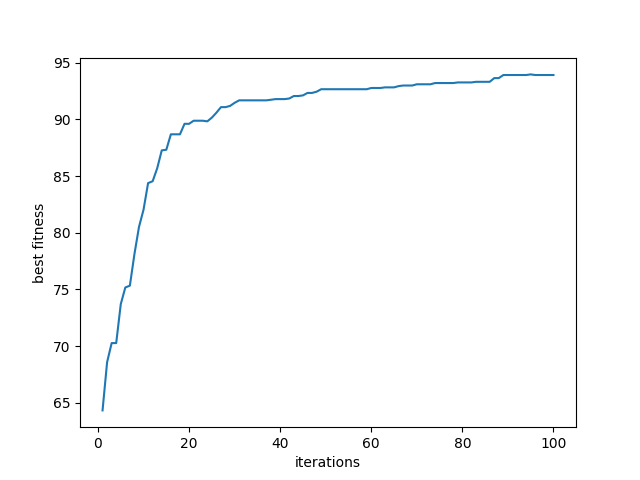
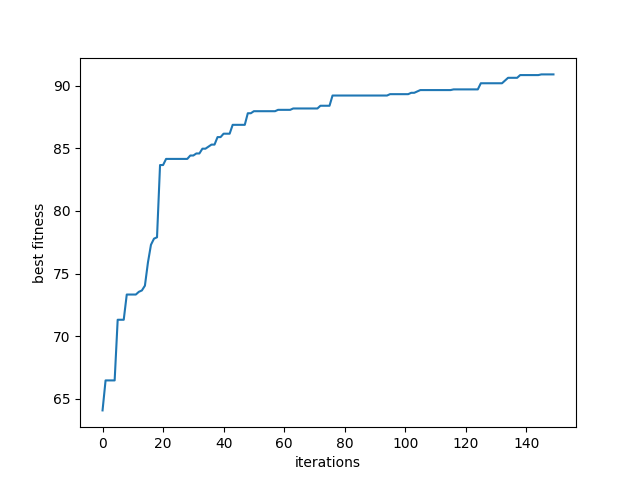
Better organization of experiments, now experiments results are organized according to experiment tags - use python main.py --exp-tag <tag> TODO: Add configs to experiments

diff --git a/code/algo.py b/code/algo.py
@@ -1,5 +1,7 @@
 import random
 import numpy as np
+from sklearn.cluster import KMeans
+from collections import defaultdict
 
 from util import geodistance
 import constants
@@ -10,14 +12,18 @@ class Model():
     n_circles = None # number of charging stations to cover restaurants
     lat_range, lon_range = None, None # range of lattitude and longitude
 
-    def __init__(self, gnome=None):
+    def __init__(self, gnome=None, log=False):
+        np.random.seed(seed=constants.SEED)
         if Model.instance is None:
             raise Exception('please initialize the model class first, e.g. Run Mode.Init(instance, radius, n_circles)')
 
+        self.log = log
         if gnome is None:
-            lats = np.random.uniform(Model.lat_range[0], Model.lat_range[1], Model.n_circles)
-            lons = np.random.uniform(Model.lon_range[0], Model.lon_range[1], Model.n_circles)
-            self.centers = np.column_stack((lats, lons))
+            kmeans = KMeans(n_clusters=Model.n_circles, random_state=0).fit(Model.instance.values[:, 1:])
+            self.centers = kmeans.cluster_centers_
+            # lats = np.random.uniform(Model.lat_range[0], Model.lat_range[1], Model.n_circles)
+            # lons = np.random.uniform(Model.lon_range[0], Model.lon_range[1], Model.n_circles)
+            # self.centers = np.column_stack((lats, lons))
         else:
             self.centers = gnome
 
@@ -33,7 +39,8 @@ class Model():
 
         covered_nodes_percentage = 100 * np.sum(covered != 0) / n_nodes
         overlaped_nodes_percentage = 100 * np.sum(covered > 1) / n_nodes
-        print(f'covered_nodes -> {covered_nodes_percentage} overlaped_nodes -> {overlaped_nodes_percentage}')
+        if self.log:
+            print(f'covered_nodes -> {covered_nodes_percentage} overlaped_nodes -> {overlaped_nodes_percentage}')
         
         return (covered_nodes_percentage - overlaped_nodes_percentage)
 
@@ -59,7 +66,7 @@ class Model():
         fit_models = population[0:round(constants.SELECTION_PERCENTAGE * constants.POPULATION)]
 
         for model in fit_models:
-            fit_models_copy.append(Model(gnome=model.centers))
+            fit_models_copy.append(Model(gnome=model.centers.copy()))
 
         return fit_models_copy
 
@@ -68,7 +75,7 @@ class Model():
         centers1, centers2 = object1.centers.copy(), object2.centers.copy()
 
         for i in range(Model.n_circles):
-            if random.randint(0, 100) <= constants.CROSSOVER_PROBABILITY * 100:
+            if np.random.uniform(0, 1) <= constants.CROSSOVER_PROBABILITY:
                 centers1[i], centers2[i] = centers2[i], centers1[i]
 
         return Model(gnome=centers1) if random.randint(0,1) == 0 else Model(gnome=centers2)
@@ -76,11 +83,14 @@ class Model():
 
     @classmethod
     def mutation(cls, obj):
-        centers = obj.centers
+        centers = obj.centers.copy()
 
         for i in range(Model.n_circles):
-            if random.randint(0, 100) <= constants.MUTATION_PROBABILITY * 100:
-                centers[i] += np.random.uniform(-0.008, 0.008, 2)
+            if np.random.uniform(0, 1) <= constants.MUTATION_PROBABILITY:
+                if constants.MUTATION_DISTRIBTION == "uniform":
+                    centers[i] += np.random.uniform(-constants.MUTATION_RANGE, constants.MUTATION_RANGE, 2)
+                else:
+                    centers[i] += np.random.normal(0, constants.MUTATION_RANGE, 2)
 
         return Model(gnome=centers)
 

diff --git a/code/main.py b/code/main.py
@@ -1,39 +1,12 @@
-import argparse
-from sys import argv
-from sklearn.cluster import KMeans
-import seaborn as sns
 import matplotlib.pyplot as plt
-# from sklearn.cluster import KMeans
+
 import util
 from constants import RADIUS, N_CIRCLES, POPULATION
 from algo import Model
 
-def parse_arguments():
-    parser = argparse.ArgumentParser()
-    parser.add_argument('-format', '--format', help='format of the file from which to extract dataframe', type=str)
-    parser.add_argument('-region', '--region', help='name of the region for data', type=str)
-    parser.set_defaults(format='csv')
-
-    args = parser.parse_args()
-    df = util.get_restaurants(args.region, args.format == 'csv')
-    return df, args.region, args.format != 'csv'
-
-def kmean_draw(df, region):
-    data = df.values[:, 1:]
-    km = KMeans(n_clusters=12, random_state=0)
-    km.fit(data)
-
-    prediction = km.predict(data)
-    centers = km.cluster_centers_
-
-    sns.scatterplot(x="lat", y="lon", data=df, hue=prediction)
-    plt.plot(centers[:, 0], centers[:, 1], 'o')
-    plt.savefig(f'fig/{region}.kmean.png', format='png')
-    plt.show()
-
 # Create geneatic algorithm for set cover problem using fixed radius circles
 if __name__ == '__main__':
-    df, region, is_osm = parse_arguments()
+    df, region, is_osm, expno = util.parse_arguments()
     # util.draw(df, region)
     if is_osm:
         util.to_csv(df, region)
@@ -42,28 +15,29 @@ if __name__ == '__main__':
 
     models = [Model() for _ in range(POPULATION)]
     fitness_per_iteration = []
-    best_model_ceters = None
+    best_model_centers = None
 
-    for i in range(100):
+    EPOCHS = 150
+    for i in range(EPOCHS):
         fitness = [model.fitness() for model in models]
         model_fitness = zip(fitness, models)
         model_fitness = sorted(model_fitness, key=lambda k: k[0], reverse=True)
         fitness_per_iteration.append(model_fitness[0][0])
         population = []
 
-        for i in range(POPULATION):
-            population.append(model_fitness[i][1])
+        for j in range(POPULATION):
+            population.append(model_fitness[j][1])
 
         models = Model.new_generation(population)
-        best_model_ceters = model_fitness[0][1].centers
-        print(model_fitness[0][0])
+        best_model_centers = model_fitness[0][1].centers
+        print(f'iterations: {i}, fitness: {model_fitness[0][0]}')
 
     print('---------------------------------------')
-    print(f'{best_model_ceters}')
+    print(f'{best_model_centers}')
     print('---------------------------------------')
 
-    plt.plot([i for i in range(1, 101)], fitness_per_iteration)
+    plt.plot([i for i in range(0, EPOCHS)], fitness_per_iteration)
     plt.xlabel('iterations')
     plt.ylabel('best fitness')
-    plt.savefig(f'fig/{region}.genetic.png', format='png')
+    plt.savefig(f'experiments/exp-{expno}/fig/{region}.genetic.png', format='png')
     plt.show()

diff --git a/code/result.py b/code/result.py
@@ -10,27 +10,17 @@ import util
 from constants import RADIUS, N_CIRCLES, POPULATION
 from algo import Model
 
-def parse_arguments():
-    parser = argparse.ArgumentParser()
-    parser.add_argument('-format', '--format', help='format of the file from which to extract dataframe', type=str)
-    parser.add_argument('-region', '--region', help='name of the region for data', type=str)
-    parser.set_defaults(format='csv')
-
-    args = parser.parse_args()
-    df = util.get_restaurants(args.region, args.format == 'csv')
-    return df, args.region, args.format != 'csv'
-
 # Create geneatic algorithm for set cover problem using fixed radius circles
 if __name__ == '__main__':
-    df, region, is_osm = parse_arguments()
+    df, region, is_osm, expno = util.parse_arguments()
     # util.draw(df, region)
     if is_osm:
         util.to_csv(df, region)
 
-    centers = pd.read_csv(f'csv/{region}.centers.csv').values[:, 1:]
+    centers = pd.read_csv(f'experiments/exp-{expno}/csv/{region}.centers.csv').values[:, 1:]
     
     Model.Init(df, RADIUS, N_CIRCLES)
-    model = Model(gnome=centers)
+    model = Model(gnome=centers, log=True)
     print(model.fitness())
 
     Y = [i for i in range(len(centers))]
@@ -44,5 +34,5 @@ if __name__ == '__main__':
 
     sns.scatterplot(x="lat", y="lon", data=df, hue=y)
     plt.plot(centers[:, 0], centers[:, 1], 'o')
-    plt.savefig(f'fig/{region}.gacluster.png', format='png')
+    plt.savefig(f'experiments/exp-{expno}/fig/{region}.gacluster.png', format='png')
     plt.show()

diff --git a/code/util.py b/code/util.py
@@ -1,4 +1,9 @@
+import argparse
+from sys import argv
+
 import osmium as osm
+from sklearn.cluster import KMeans
+import seaborn as sns
 import matplotlib.pyplot as plt
 import pandas as pd
 import seaborn as sns
@@ -56,3 +61,28 @@ def draw(df, region):
 # save the result of dataframe to csv file
 def to_csv(df, region):
     df.to_csv(f'csv/{region}.csv')
+
+def parse_arguments():
+    parser = argparse.ArgumentParser()
+    parser.add_argument('-format', '--format', help='format of the file from which to extract dataframe', type=str)
+    parser.add_argument('-expno', '--expno', help='number of the expierment', type=int)
+    parser.add_argument('-region', '--region', help='name of the region for data', type=str)
+    parser.set_defaults(format='csv')
+
+    args = parser.parse_args()
+    df = util.get_restaurants(args.region, args.format == 'csv')
+    return df, args.region, args.format != 'csv', args.expno
+
+def kmean_draw(df, region, expno):
+    data = df.values[:, 1:]
+    km = KMeans(n_clusters=12, random_state=0)
+    km.fit(data)
+
+    prediction = km.predict(data)
+    centers = km.cluster_centers_
+
+    sns.scatterplot(x="lat", y="lon", data=df, hue=prediction)
+    plt.plot(centers[:, 0], centers[:, 1], 'o')
+    plt.savefig(f'experiments/exp-{expno}/fig/{region}.kmean.png', format='png')
+    plt.show()
+

diff --git a/code/constants.py b/code/constants.py
@@ -1,27 +1,34 @@
 # constants for the geneatic algorithm
+SEED = None
 
 # region cdg
 # RADIUS = 1
 # N_CIRCLES = 4
 # POPULATION = 40
-# SELECTION_PERCENTAGE = 0.3
-# MUTATION_PROBABILITY = 0.3
+# SELECTION_PERCENTAGE = 0.35
+# MUTATION_PROBABILITY = 0.05
 # CROSSOVER_PROBABILITY = 0.6
+# MUTATION_RANGE = 0.036
+# MUTATION_DISTRIBTION = "uniform"
 
 
 # region dlh
 RADIUS = 4
 N_CIRCLES = 10
 POPULATION = 40
-SELECTION_PERCENTAGE = 0.3
-MUTATION_PROBABILITY = 0.3
+SELECTION_PERCENTAGE = 0.35
+MUTATION_PROBABILITY = 0.05
 CROSSOVER_PROBABILITY = 0.6
+MUTATION_RANGE = 0.04
+MUTATION_DISTRIBTION = "uniform"
 
 
 # region blr
-# RADIUS = 5
-# N_CIRCLES = 10
+# RADIUS = 4
+# N_CIRCLES = 12
 # POPULATION = 40
-# SELECTION_PERCENTAGE = 0.3
-# MUTATION_PROBABILITY = 0.3
+# SELECTION_PERCENTAGE = 0.35
+# MUTATION_PROBABILITY = 0.05
 # CROSSOVER_PROBABILITY = 0.6
+# MUTATION_RANGE = 0.036
+# MUTATION_DISTRIBTION = "uniform"
